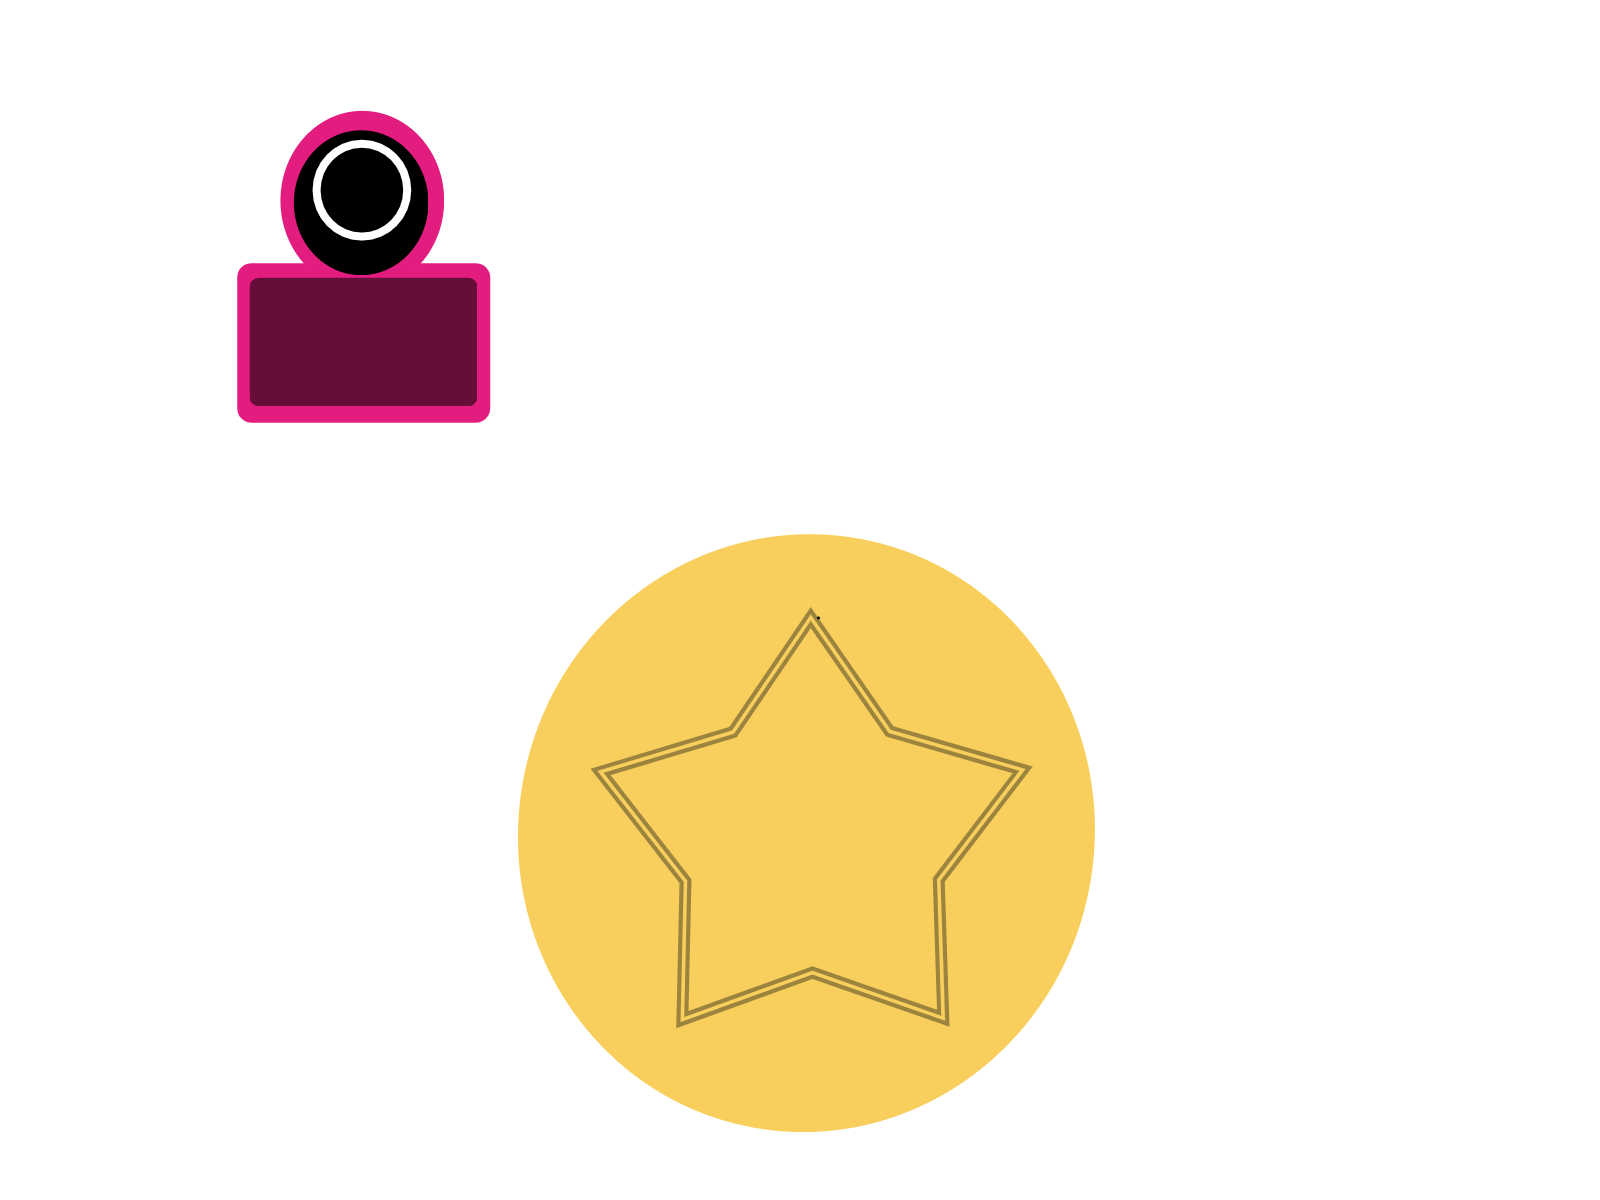
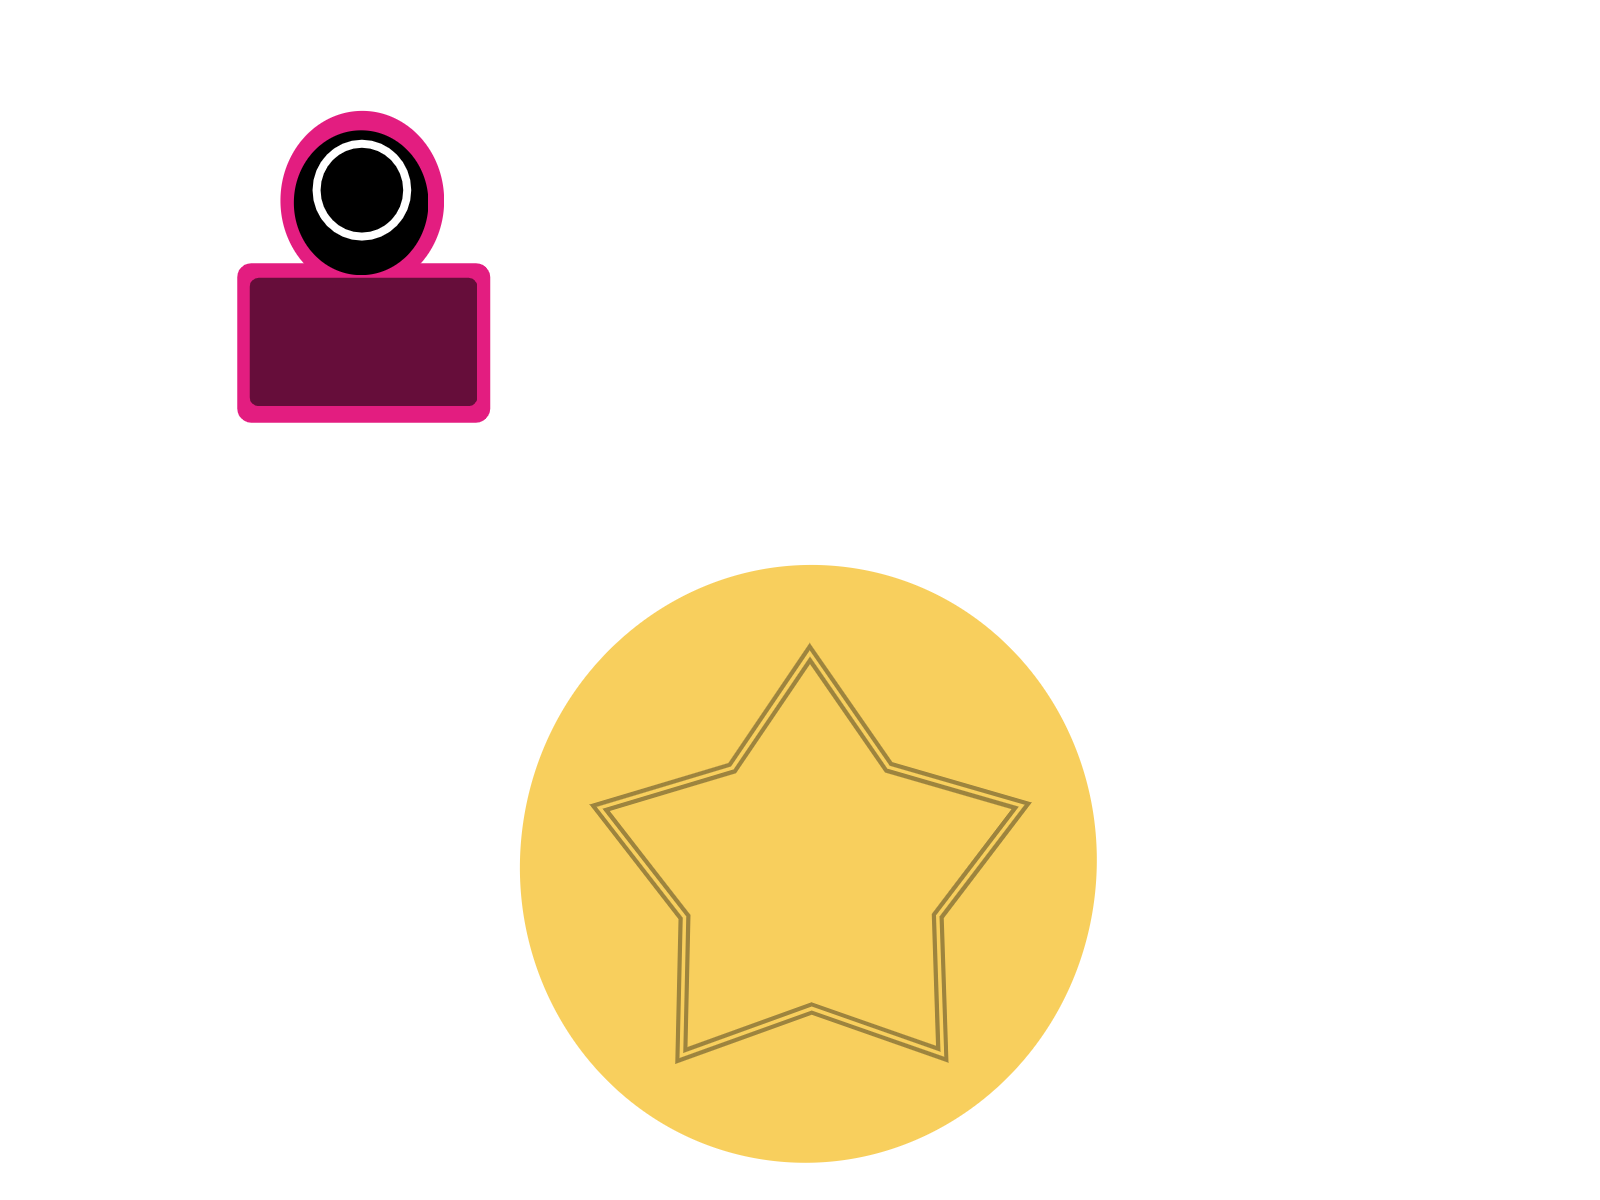
made candy div

Changed region(s): [[0.3125, 0.4317, 0.6875, 0.9867]]

diff --git a/src/App.css b/src/App.css
@@ -148,8 +148,43 @@ img {
   display: flex;
   flex-direction: column;
   justify-content: flex-end;
-  background-image: url("./images/Dalgona-background.png");
+  background-image: url("./images/Game_background.png");
   background-size: cover;
-  position:relative;
+  position: relative;
   z-index: -1;
 }
+
+.candy {
+    width: 300px;
+    height: 300px;
+    position: absolute;
+    left: 285px;
+    top: 310px;
+    background-color: rgb(250, 195, 120);
+    border-radius: 150px;
+    z-index: 10;
+  }
+
+  /* reference https://stackoverflow.com/questions/7073484/how-do-css-triangles-work */
+  .triangleLine {
+    width: 0;
+    height: 0;
+    position: absolute;
+    top: 45px;
+    left: 60px;
+    border-style: solid;
+    border-width: 0 90px 180px 90px;
+    border-color: transparent transparent rgba(0, 0, 0, 0.4) transparent;
+  }
+
+  .triangle {
+    width: 0;
+    height: 0;
+    position: absolute;
+    top: 6px;
+    left: -85px;
+    border-style: solid;
+    border-width: 0 85px 170px 85px;
+    border-color: transparent transparent rgb(250, 196, 120) transparent;
+  }
+  

diff --git a/src/components/Dalgona/Dalgona.js b/src/components/Dalgona/Dalgona.js
@@ -8,10 +8,12 @@ function Dalgona() {
   return (
     <div className="gameContainer dalgona">
   
-{/* 
-      <div className='playWindow-left'>
-        
-      </div> */}
+
+      <div className='candy'>
+        <div className='triangleLine'>
+          <div className='triangle'></div>
+        </div>
+      </div>
 
     </div>
   );
@@ -19,10 +21,5 @@ function Dalgona() {
   
   export default Dalgona;
   
-  // create one green piece 
-  // create red/green light sign
-  // when the green piece is clicked during green light, move toward end line
-  // when the green piece is clicked during red light, the green piece turn red
-  // if the green piece reach end line, show the next button
-  // when the timer goes 0, show the next button
+  // make divs to have 
 

diff --git a/src/components/Game/Game.js b/src/components/Game/Game.js
@@ -41,6 +41,7 @@ function Game() {
           </div>
         </div>
       } />
+      
       <main>
         {/* Setting route to each pages */}
         <Route path='/game/rlgl' component={RLGL} />
